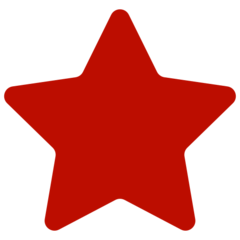
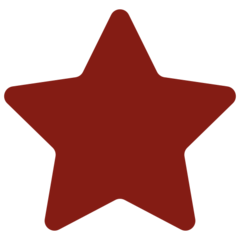
more work on rating

diff --git a/static/js/rating.js b/static/js/rating.js
@@ -1,5 +1,9 @@
 const show_rating_btn = document.getElementById("rating-btn");
 const account_info_div = document.getElementById("account-info");
+const star_dark_img = "../../static/images/star_dark.png"
+const star_light_img = "../../static/images/star_light.png"
+
+let rating = 0;
 
 show_rating_btn.addEventListener("click", show_rating);
 
@@ -9,14 +13,25 @@ function show_rating() {
     account_info_div.appendChild(star_div);
     for (let i = 1; i <= 5; i++) {
         let star = document.createElement("img");
-        star.src = "../../static/images/star_light.png";
+        star.src = star_light_img;
         star.id = "star-" + i.toString();
         star.className = "rating-star";
-        star.addEventListener("mouseover", star_turn_dark);
-        star.addEventListener("mouseleave", star_turn_light);
-        star.addEventListener("click", star_freeze);
+        star.addEventListener("mouseover", stars_darken);
+        star.addEventListener("mouseleave", stars_lighten);
+        star.addEventListener("click", stars_freeze);
         star_div.appendChild(star);
     }
+    show_rating_btn.removeEventListener("click", show_rating);
+    show_rating_btn.addEventListener("click", hide_rating);
+    show_rating_btn.innerText = "Cancel";
+}
+
+function hide_rating() {
+    let star_div = document.getElementById("star-div");
+    star_div.remove();
+    show_rating_btn.removeEventListener("click", hide_rating);
+    show_rating_btn.addEventListener("click", show_rating);
+    show_rating_btn.innerText = "Rate user";
 }
 
 function get_prev_stars(star_id) {
@@ -25,49 +40,73 @@ function get_prev_stars(star_id) {
         let star = document.getElementById("star-" + i.toString());
         stars.push(star);
     }
-    return stars
+    return stars;
 }
 
-function star_turn_dark() {
-    this.src = "../../static/images/star_dark.png";
+function get_next_stars(star_id) {
+    let stars = Array();
+    for (let i = 5; i > parseInt(star_id) ; i--) {
+        let star = document.getElementById("star-" + i.toString());
+        stars.push(star);
+    }
+    return stars;
+}
+
+function stars_darken() {
+    this.src = star_dark_img;
     let star_id = this.id.slice(-1);
     let prev_stars = get_prev_stars(star_id);
     for (let i = 0; i < prev_stars.length ; i++) {
         let star = prev_stars[i];
-        star.src = "../../static/images/star_dark.png";
+        star.src = star_dark_img;
     }
 }
 
-function star_turn_light() {
-    this.src = "../../static/images/star_light.png";
+function stars_lighten() {
+    this.src = star_light_img;
     let star_id = this.id.slice(-1);
     let prev_stars = get_prev_stars(star_id);
     for (let i = 0; i < prev_stars.length ; i++) {
         let star = prev_stars[i];
-        star.src = "../../static/images/star_light.png";
+        star.src = star_light_img;
     }
 }
 
-function star_freeze() {
-    this.removeEventListener("mouseover", star_turn_dark);
-    this.removeEventListener("mouseleave", star_turn_light);
-    let star_id = this.id.slice(-1);
-    let prev_stars = get_prev_stars(star_id);
-    for (let i = 0; i < prev_stars.length ; i++) {
-        let star = prev_stars[i];
-        star.removeEventListener("mouseover", star_turn_dark);
-        star.removeEventListener("mouseleave", star_turn_light);
+function single_star_darken(star) {
+    star.src = star_dark_img;
+}
+
+function single_star_lighten(star) {
+    star.src = star_light_img;
+}
+
+function stars_freeze() {
+    //Lock in the appropriate colors on the stars
+    rating = parseInt(this.id.slice(-1));
+    let stars = document.getElementsByClassName("rating-star");
+    for (let i = 0; i < stars.length; i++) {
+        stars[i].removeEventListener("mouseover", stars_darken);
+        stars[i].removeEventListener("mouseleave", stars_lighten);
+        if (i >= rating) {
+            single_star_lighten(stars[i]);
+        }
+        else {
+            single_star_darken(stars[i]);
+        }
     }
-    let rate_btn = document.createElement("a");
-    rate_btn.id = "rate-btn";
-    rate_btn.className = "btn btn-primary";
-    rate_btn.href = "#";
-    rate_btn.innerHTML = "Confirm rating"
-    let star_div = document.getElementById("star-div");
-    //add button to star div, etc
+    //Add a button to confirm the rating, if it doesn't already exist
+    if (document.getElementById("rate-btn") === null) {
+        let rate_btn = document.createElement("a");
+        rate_btn.id = "rate-btn";
+        rate_btn.className = "btn btn-primary";
+        rate_btn.href = "#";
+        rate_btn.innerText = "Confirm rating";
+        let star_div = document.getElementById("star-div");
+        star_div.appendChild(rate_btn);
+    }
 }
 
 function restore_event_listeners() {
-    this.addEventListener("mouseover", star_turn_dark);
-    this.addEventListener("mouseleave", star_turn_light);
+    this.addEventListener("mouseover", stars_darken);
+    this.addEventListener("mouseleave", stars_lighten);
 }
